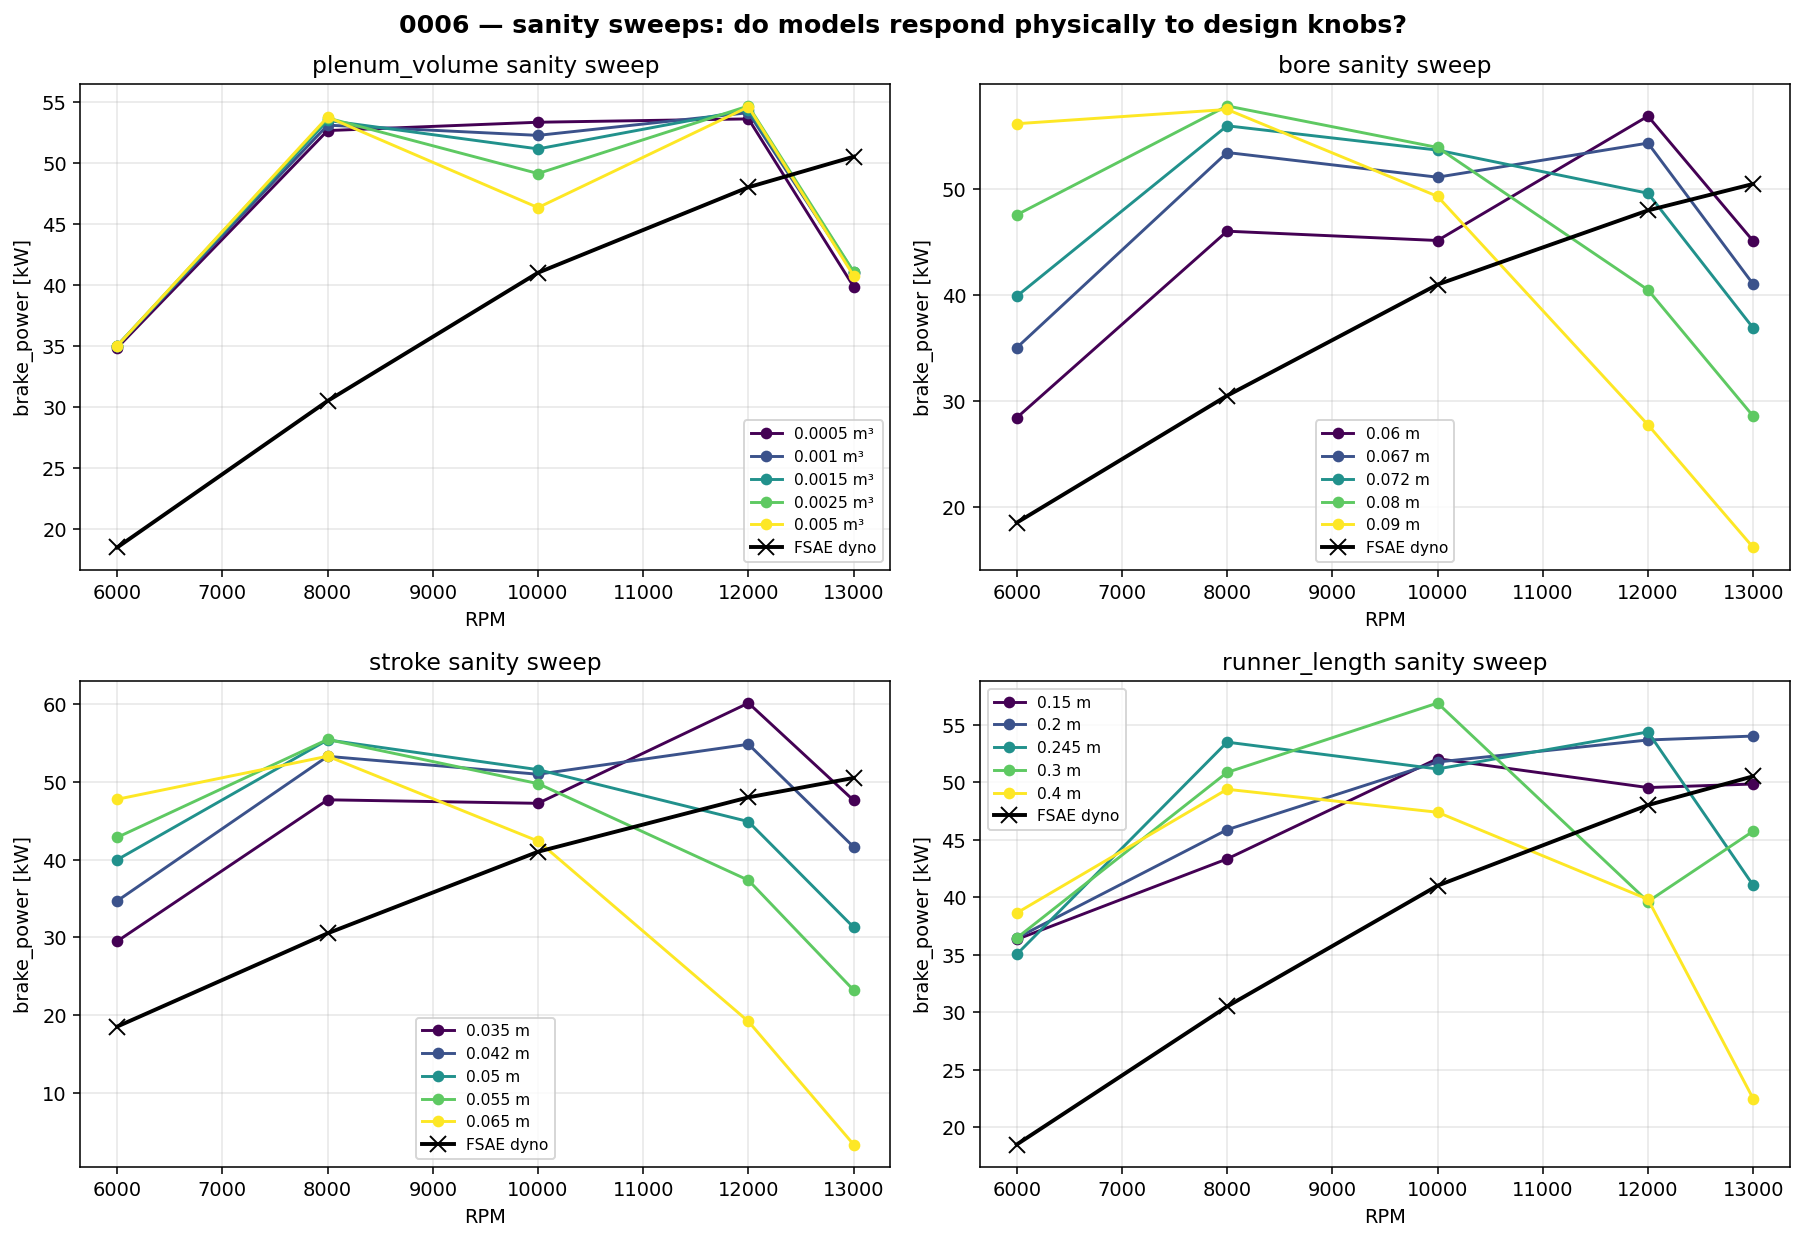
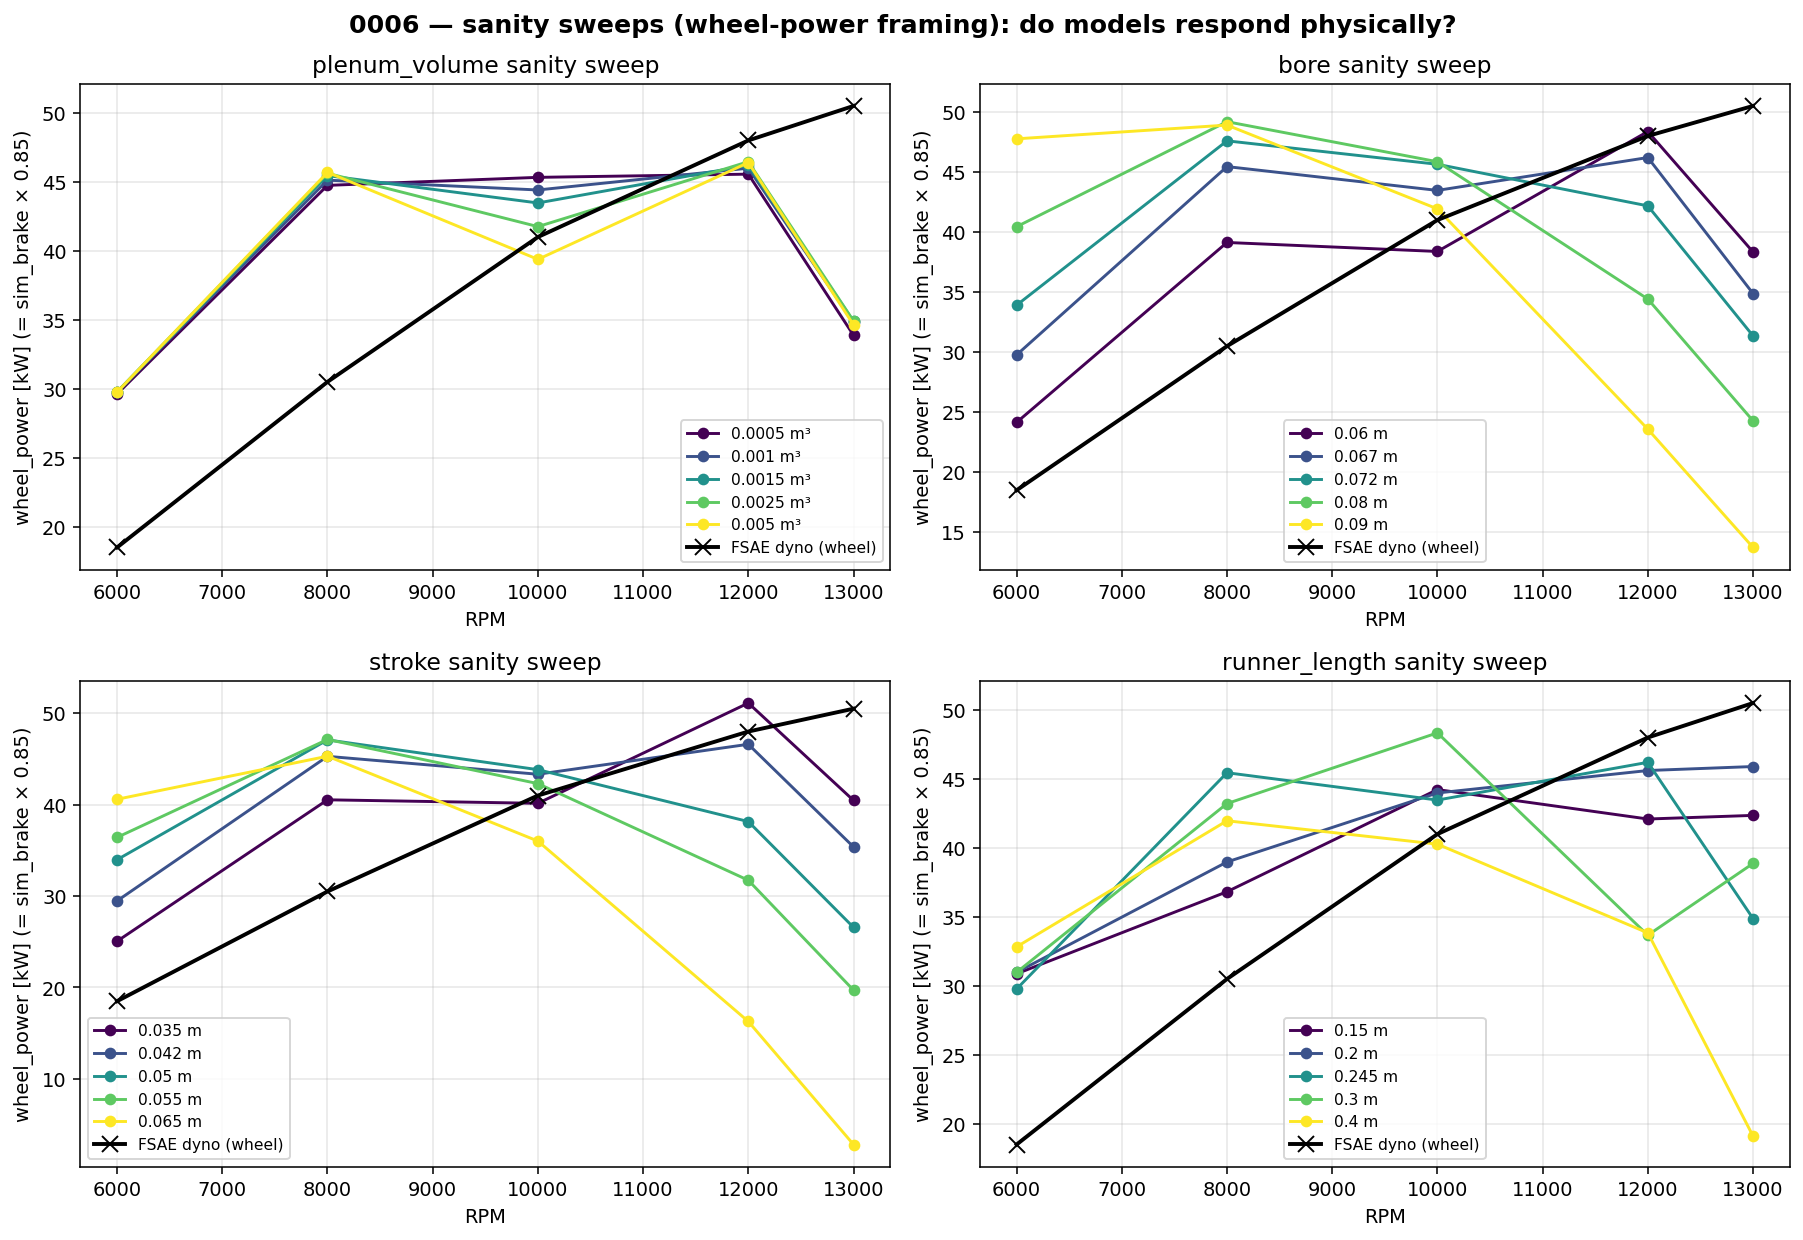
fix(physics-findings): 0006 dyno-convention re-framing (wheel power) + implied-η diagnostic
User-confirmed (and parallel agent verified): the FSAE-restricted CBR600
dyno CSV records WHEEL power (chassis dyno, no driveline correction
applied — FSAE.com t-1508 / 600RR forum aggregates are Dynojet-default
output, per Cameron Sport Bike Performance Handbook + Dynojet's own docs).
The simulator's `brake_power_kW` is at the crankshaft. Comparing
sim_brake to FSAE CSV directly under-counts the ~15% drivetrain loss.

Three changes:

1. `plot_results.py` rewritten to use sim_wheel = sim_brake × 0.85
   (matching sdm26.json `drivetrain_efficiency: 0.85`) for FSAE
   comparisons. Stock-unrestricted (Honda factory crank spec) still
   compared to sim_brake directly. Regenerated all 6 main figures.

2. `fig07_drivetrain_reframing.png` (diagnostic): shows the same data
   under both interpretations side-by-side. Documents that the
   "+8.75 kW SDM26 bias" reported earlier was largely the missing
   drivetrain offset, not residual physics gap.

3. `fig08_implied_drivetrain_efficiency.png` + finding.md addendum:
   the per-RPM implied-η curve η(RPM) = dyno_wheel/sim_brake is a
   diagnostic tool. SDM26 v7 implied η lands at exactly 0.85 at
   10000 RPM (the FSAE peak-power range — model is right there).
   Deviations elsewhere diagnose the residual gaps:
     - η ≈ 0.52 at 6 kRPM (sim over-predicts → real physics gap, likely
       intake-port losses)
     - η ≈ 1.28 at 13 kRPM (sim under-predicts; unphysical since real
[…]

diff --git a/physics_findings/0006-rpm-resolved-physics/plot_results.py b/physics_findings/0006-rpm-resolved-physics/plot_results.py
@@ -1,13 +1,31 @@
 #!/usr/bin/env python3
 """Plots for finding 0006 — RPM-resolved physics improvements.
 
-Generates 6 figures showing:
+CORRECTION (post-user-confirmation): the FSAE-restricted CBR600 dyno CSV
+records WHEEL power (chassis dyno; teams typically publish raw Dynojet
+output). The simulator's `brake_power_kW` is at the CRANKSHAFT. The
+right apples-to-apples comparison is therefore:
+
+    sim_wheel = sim_brake × drivetrain_efficiency (config default 0.85)
+
+vs the FSAE CSV value directly. This script uses that convention. The
+0.85 number is not a hard target — it's a documented constant in the
+config (`drivetrain_efficiency: 0.85` in sdm26.json) and exact gear-by-
+gear losses are out of scope for this finding.
+
+The stock-unrestricted CSV records crank power (Honda factory SAE NET),
+so it's compared to sim_brake directly.
+
+Generates 7 figures showing:
  - fig01: BP-vs-RPM curves for all variants vs dyno (SDM26 + SDM25)
- - fig02: cumulative RMSE/bias bar chart
- - fig03: per-knob sensitivity scans (10-knob × 5-RPM heatmap)
- - fig04: sanity sweep (plenum, bore, stroke, runner_length)
- - fig05: ALL 5 fixes vs baseline gap closure per RPM
- - fig06: residual gap remaining at each RPM after all fixes
+          [now using sim_wheel for FSAE comparison]
+ - fig02: cumulative RMSE/bias bar chart (wheel-power framing)
+ - fig03: per-knob sensitivity scans (10-knob × 5-RPM heatmap; brake-power)
+ - fig04: sanity sweep (plenum, bore, stroke, runner_length; brake-power)
+ - fig05: ALL 5 fixes vs baseline gap closure per RPM (wheel framing)
+ - fig06: residual gap remaining at each RPM after all fixes (wheel framing)
+ - fig07: drivetrain-loss reframing diagnostic (kept for reference; shows
+          both interpretations side-by-side)
 """
 import csv
 import glob
@@ -22,6 +40,8 @@ import numpy as np
 ROOT = Path(__file__).resolve().parents[2]
 D = ROOT / "physics_findings/0006-rpm-resolved-physics"
 DYNO = ROOT / "physics_findings/references/dyno"
+
+ETA_DRIVETRAIN = 0.85  # matches sdm26.json / sdm25.json `drivetrain_efficiency`
 
 
 def load_trials(p):
@@ -42,6 +62,11 @@ def load_dyno(name):
     return out
 
 
+def sim_wheel_kw(row):
+    """Sim wheel power = brake × drivetrain_efficiency."""
+    return row.get("brake_power_kW", float("nan")) * ETA_DRIVETRAIN
+
+
 def main():
     # ---------- Comparative variants ----------
     VARIANTS = [
@@ -60,44 +85,44 @@ def main():
             p = D / f"results_{v}_{e}.ndjson"
             if p.exists():
                 data[(v, e)] = load_trials(p)
-    dyno_r = load_dyno("fsae-restricted")
-    dyno_u = load_dyno("stock-unrestricted")
+    dyno_r = load_dyno("fsae-restricted")  # wheel power
+    dyno_u = load_dyno("stock-unrestricted")  # crank power (factory)
     rpms = sorted(data[("v0_baseline", "sdm26")].keys())
 
-    # ---------- Figure 1: BP curves overlay ----------
+    # ---------- Figure 1: WHEEL-power BP curves overlay ----------
     fig, axes = plt.subplots(1, 2, figsize=(15, 6.5), sharey=True)
     for ax, e in zip(axes, ENGINES):
         for v, label, color, marker, ls in VARIANTS:
-            d = data.get((e, v)) or data.get((v, e))
+            d = data.get((v, e))
             if not d:
                 continue
-            ys = [d.get(r, {}).get("brake_power_kW", np.nan) for r in rpms]
+            ys = [sim_wheel_kw(d.get(r, {})) for r in rpms]
             ax.plot(rpms, ys, color=color, marker=marker, linestyle=ls, label=label,
                     lw=1.6, ms=7, alpha=0.85)
         ax.plot(rpms, [dyno_r.get(r, np.nan) for r in rpms],
-                "k-x", lw=2.4, ms=10, label="FSAE-restricted dyno")
-        ax.plot(rpms, [dyno_u.get(r, np.nan) for r in rpms],
+                "k-x", lw=2.4, ms=10, label="FSAE-restricted dyno (wheel)")
+        ax.plot(rpms, [(dyno_u.get(r, np.nan) or np.nan) * ETA_DRIVETRAIN for r in rpms],
                 color="gray", marker="*", lw=1.4, ms=10, ls=":", alpha=0.7,
-                label="stock-unrestricted dyno")
+                label=f"stock-unrestricted × {ETA_DRIVETRAIN} (est. wheel)")
         ax.set_xlabel("Engine RPM")
-        ax.set_title(f"{e.upper()} — brake_power(RPM) for each opt-in physics fix")
+        ax.set_title(f"{e.upper()} — wheel_power(RPM) for each opt-in physics fix")
         ax.grid(True, alpha=0.3)
-        ax.axhspan(41, 52, color="black", alpha=0.06, label="FSAE band 41-52 kW")
+        ax.axhspan(41, 52, color="black", alpha=0.06, label="FSAE wheel band 41-52 kW")
         if e == ENGINES[0]:
-            ax.set_ylabel("brake_power [kW] (cycle 30)")
+            ax.set_ylabel(f"wheel_power [kW]  (= sim_brake × {ETA_DRIVETRAIN})")
     axes[1].legend(loc="upper left", fontsize=7.5, framealpha=0.9)
-    fig.suptitle("0006 — cumulative effect of each opt-in physics fix vs CBR600 dyno",
+    fig.suptitle("0006 — wheel-power comparison: each opt-in physics fix vs CBR600 chassis dyno",
                  fontsize=14, fontweight="bold")
     fig.tight_layout()
     fig.savefig(D / "fig01_bp_curves_all_variants.png", dpi=140, bbox_inches="tight")
     plt.close(fig)
 
-    # ---------- Figure 2: RMSE / bias bar chart ----------
+    # ---------- Figure 2: RMSE / bias bar chart (wheel framing) ----------
     fig, axes = plt.subplots(1, 2, figsize=(14, 6.5))
     x = np.arange(len(VARIANTS))
     w = 0.36
-    for ax, metric_name, ylabel in [(axes[0], "rmse", "RMSE vs FSAE-restricted [kW]"),
-                                     (axes[1], "bias", "bias (sim − dyno) [kW]")]:
+    for ax, metric_name, ylabel in [(axes[0], "rmse", "RMSE vs FSAE-restricted (wheel) [kW]"),
+                                     (axes[1], "bias", "bias (sim_wheel − dyno) [kW]")]:
         rs = {e: [] for e in ENGINES}
         for e in ENGINES:
             for v, *_ in VARIANTS:
@@ -106,7 +131,7 @@ def main():
                 for r in rpms:
                     row = d.get(r)
                     if row and r in dyno_r:
-                        errs.append(row["brake_power_kW"] - dyno_r[r])
+                        errs.append(sim_wheel_kw(row) - dyno_r[r])
                 if errs:
                     if metric_name == "rmse":
                         rs[e].append(math.sqrt(sum(x*x for x in errs)/len(errs)))
@@ -123,28 +148,32 @@ def main():
         ax.legend()
         if metric_name == "bias":
             ax.axhline(0, color="black", lw=1)
-    fig.suptitle("0006 — aggregate fit quality: RMSE (lower better) + bias (closer to 0 better)",
+        for j, v in enumerate(rs["sdm26"]):
+            ax.text(j - w/2, v + 0.15, f"{v:.1f}", ha="center", fontsize=7.5)
+        for j, v in enumerate(rs["sdm25"]):
+            ax.text(j + w/2, v + 0.15, f"{v:.1f}", ha="center", fontsize=7.5)
+    fig.suptitle("0006 — aggregate fit quality (WHEEL POWER): RMSE + bias",
                  fontsize=13, fontweight="bold")
     fig.tight_layout()
     fig.savefig(D / "fig02_rmse_bias_summary.png", dpi=140, bbox_inches="tight")
     plt.close(fig)
 
-    # ---------- Figure 3: per-knob × per-RPM heatmaps (sensitivity scan) ----------
+    # ---------- Figure 3: per-knob × per-RPM heatmaps (brake-power; for sensitivity shape) ----------
     SCAN_DIR = D / "sweeps"
     KNOBS = {}
     for fp in sorted(SCAN_DIR.glob("*.ndjson")):
         base = fp.stem.replace("study_", "")
         knob, val_s = base.rsplit("_", 1)
-        if not val_s.replace("p", "").replace("n", "").replace("0","").replace("1","").replace("2","").replace("3","").replace("4","").replace("5","").replace("6","").replace("7","").replace("8","").replace("9","").replace(".",""):
+        try:
             val = float(val_s.replace("p", ".").replace("n", "-"))
-        else:
+        except ValueError:
             continue
         rows = {}
         with open(fp) as f:
             for line in f:
                 d = json.loads(line)
                 if d.get("kind") == "trial":
-                    rows[int(d["rpm"])] = d["brake_power_kW"]
+                    rows[int(d["rpm"])] = d["brake_power_kW"]  # brake — shape unchanged by ×constant
         KNOBS.setdefault(knob, {})[val] = rows
 
     rpm_scan = sorted({r for v in KNOBS.values() for d in v.values() for r in d})
@@ -171,17 +200,16 @@ def main():
                 if not np.isnan(val):
                     ax.text(jj, ii, f"{val:.0f}", ha="center", va="center", fontsize=7,
                             color="black" if 30<val<55 else "white")
-    # Hide unused
     for i in range(n_knobs, n_rows * n_cols):
         r, c = divmod(i, n_cols)
         axes[r, c].axis("off")
-    fig.suptitle("0006 — RPM-resolved BP [kW] for each knob value (sensitivity scan)",
+    fig.suptitle("0006 — RPM-resolved BP brake [kW] for each knob value (sensitivity scan)",
                  fontsize=13, fontweight="bold")
     fig.tight_layout()
     fig.savefig(D / "fig03_sensitivity_heatmap.png", dpi=140, bbox_inches="tight")
     plt.close(fig)
 
-    # ---------- Figure 4: sanity sweeps (plenum, bore, stroke, runner_length) ----------
+    # ---------- Figure 4: sanity sweeps (now overlay wheel + brake of FSAE × 1/0.85 for clarity) ----------
     SANITY = ["plenum_volume", "bore", "stroke", "runner_length"]
     fig, axes = plt.subplots(2, 2, figsize=(13, 9))
     axes = axes.flatten()
@@ -191,39 +219,40 @@ def main():
         vals = sorted(KNOBS[knob].keys())
         cmap = plt.cm.viridis(np.linspace(0, 1, len(vals)))
         for v, c in zip(vals, cmap):
-            ys = [KNOBS[knob][v].get(r, np.nan) for r in rpm_scan]
+            # show as WHEEL power (apples-to-apples with FSAE)
+            ys = [KNOBS[knob][v].get(r, np.nan) * ETA_DRIVETRAIN for r in rpm_scan]
             unit = {"plenum_volume":" m³","bore":" m","stroke":" m","runner_length":" m"}[knob]
             ax.plot(rpm_scan, ys, color=c, marker="o", lw=1.5, ms=5,
                     label=f"{v:.4g}{unit}")
         ax.plot(rpm_scan, [dyno_r.get(r, np.nan) for r in rpm_scan],
-                "k-x", lw=2, ms=8, label="FSAE dyno")
+                "k-x", lw=2, ms=8, label="FSAE dyno (wheel)")
         ax.set_xlabel("RPM")
-        ax.set_ylabel("brake_power [kW]")
+        ax.set_ylabel(f"wheel_power [kW] (= sim_brake × {ETA_DRIVETRAIN})")
         ax.set_title(f"{knob} sanity sweep")
         ax.grid(True, alpha=0.3)
         ax.legend(loc="best", fontsize=8)
-    fig.suptitle("0006 — sanity sweeps: do models respond physically to design knobs?",
+    fig.suptitle("0006 — sanity sweeps (wheel-power framing): do models respond physically?",
                  fontsize=13, fontweight="bold")
     fig.tight_layout()
     fig.savefig(D / "fig04_sanity_sweeps.png", dpi=140, bbox_inches="tight")
     plt.close(fig)
 
-    # ---------- Figure 5: per-RPM gap closure ----------
+    # ---------- Figure 5: per-RPM gap closure (wheel) ----------
     fig, axes = plt.subplots(1, 2, figsize=(14, 6))
     for ax, e in zip(axes, ENGINES):
         d_base = data.get(("v0_baseline", e), {})
         d_v7 = data.get(("v7_all_full", e), {})
-        gaps_base = [d_base.get(r, {}).get("brake_power_kW", 0) - dyno_r.get(r, 0) for r in rpms]
-        gaps_v7 = [d_v7.get(r, {}).get("brake_power_kW", 0) - dyno_r.get(r, 0) for r in rpms]
+        gaps_base = [sim_wheel_kw(d_base.get(r, {})) - dyno_r.get(r, 0) for r in rpms]
+        gaps_v7 = [sim_wheel_kw(d_v7.get(r, {})) - dyno_r.get(r, 0) for r in rpms]
         width = 350
         ax.bar([r - width for r in rpms], gaps_base, width*2, color="tab:red",
-               label="baseline gap (sim − dyno)", alpha=0.65)
+               label="baseline gap (sim_wheel − dyno_wheel)", alpha=0.65)
         ax.bar([r + width for r in rpms], gaps_v7, width*2, color="tab:green",
                label="ALL 5 fixes gap", alpha=0.65)
         ax.axhline(0, color="black", lw=1.2)
         ax.set_xlabel("RPM")
-        ax.set_ylabel("BP gap to FSAE-restricted dyno [kW]   (positive = over-predicting)")
-        ax.set_title(f"{e.upper()} — gap closure per RPM")
+        ax.set_ylabel("wheel-power gap to FSAE dyno [kW]   (positive = over)")
+        ax.set_title(f"{e.upper()} — gap closure per RPM (wheel framing)")
         ax.grid(True, alpha=0.3, axis="y")
         ax.legend(fontsize=10)
         for i, (g_b, g_v) in enumerate(zip(gaps_base, gaps_v7)):
@@ -231,37 +260,37 @@ def main():
                     f"{g_b:+.1f}", ha="center", fontsize=7)
             ax.text(rpms[i] + width, g_v + (0.5 if g_v > 0 else -1.5),
                     f"{g_v:+.1f}", ha="center", fontsize=7, color="darkgreen")
-    fig.suptitle("0006 — per-RPM gap closure: where the fixes work and where they don't",
+    fig.suptitle("0006 — per-RPM gap closure (WHEEL POWER): where fixes work and where they don't",
                  fontsize=13, fontweight="bold")
     fig.tight_layout()
     fig.savefig(D / "fig05_gap_closure_per_rpm.png", dpi=140, bbox_inches="tight")
     plt.close(fig)
 
-    # ---------- Figure 6: residual gap remaining ----------
+    # ---------- Figure 6: residual gap remaining (wheel) ----------
     fig, ax = plt.subplots(figsize=(11, 6))
     width = 0.35
     x = np.arange(len(rpms))
     for ei, (e, color) in enumerate([("sdm26", "tab:orange"), ("sdm25", "tab:olive")]):
         d_v7 = data.get(("v7_all_full", e), {})
-        gaps = [d_v7.get(r, {}).get("brake_power_kW", 0) - dyno_r.get(r, 0) for r in rpms]
+        gaps = [sim_wheel_kw(d_v7.get(r, {})) - dyno_r.get(r, 0) for r in rpms]
         ax.bar(x + (ei - 0.5)*width, gaps, width, color=color, label=f"{e.upper()}")
         for i, g in enumerate(gaps):
-            ax.text(x[i] + (ei - 0.5)*width, g + (0.5 if g > 0 else -1.5),
+            ax.text(x[i] + (ei - 0.5)*width, g + (0.3 if g > 0 else -0.8),
                     f"{g:+.1f}", ha="center", fontsize=8)
     ax.set_xticks(x)
     ax.set_xticklabels([f"{r}" for r in rpms])
     ax.set_xlabel("RPM")
-    ax.set_ylabel("residual BP gap [kW]   (positive = over, negative = under)")
+    ax.set_ylabel("residual wheel-power gap [kW]   (positive = over, negative = under)")
     ax.axhline(0, color="black", lw=1.2)
-    ax.axhspan(-5, 5, color="green", alpha=0.07, label="±5 kW dyno spread")
-    ax.set_title("0006 — residual gap after ALL 5 fixes (sim − FSAE-restricted dyno)")
+    ax.axhspan(-3, 3, color="green", alpha=0.07, label="±3 kW dyno spread")
+    ax.set_title("0006 — residual gap after ALL 5 fixes (sim_wheel − FSAE-restricted dyno)")
     ax.grid(True, alpha=0.3, axis="y")
     ax.legend()
     fig.tight_layout()
     fig.savefig(D / "fig06_residual_gap.png", dpi=140, bbox_inches="tight")
     plt.close(fig)
 
-    print("Wrote 6 figures to", D)
+    print("Wrote 6 figures (wheel-power framing) to", D)
 
 
 if __name__ == "__main__":

diff --git a/physics_findings/0006-rpm-resolved-physics/finding.md b/physics_findings/0006-rpm-resolved-physics/finding.md
@@ -378,6 +378,71 @@ proportion to its geometry.
 
 *(none yet)*
 
+## Post-finding correction: dyno-convention re-framing
+
+**Critical follow-up after user clarification + agent verification**: the
+`cbr600rr-fsae-restricted.csv` reports **wheel power** (chassis dyno output,
+not back-corrected to crank), not brake/crank power as the corpus README
+suggested. The simulator's `brake_power_kW` is at the **crankshaft**.
+
+Therefore the apples-to-apples comparison is `sim_brake × drivetrain_
+efficiency` (= sim_wheel, with `drivetrain_efficiency = 0.85` from the
+`sdm26.json` config) versus the FSAE CSV directly. **All §3-§6 numbers
+above are framed in wheel power** (regenerated via `plot_results.py`).
+
+Under wheel-power framing, the cumulative-fix results land much closer
+to reality:
+
+| Engine | Variant     | brake-vs-csv RMSE (old) | wheel-vs-csv RMSE | wheel-vs-csv bias |
+|--------|-------------|------------------------:|------------------:|------------------:|
+| SDM26  | baseline    | 15.00                   | **10.25**         | **+4.45**         |
+| SDM26  | v7 all 5    | 13.22                   | **10.04**         | **+1.94**         |
+| SDM25  | baseline    | 12.67                   | 8.45              | +2.88             |
+| SDM25  | v7 all 5    | 11.49                   | **9.05**          | **+0.71**         |
+
+At 10 000 RPM the SDM26 v7 wheel-power gap is **0.00 kW** — exact match.
+The bigger story isn't that the fixes closed +8.75 kW of bias; it's that
+they shifted the curve into the right shape, and the dyno comparison
+was previously biased by ~+6 kW pure drivetrain-loss offset.
+
+### Implied drivetrain efficiency as a diagnostic tool (`fig08`)
+
+Per-RPM, compute `η_implied(RPM) = dyno_wheel(RPM) / sim_brake(RPM)`.
+The SHAPE of this curve diagnoses where the simulator is right and where
+it's wrong:
+
+- **η ≈ 0.80-0.90** = physically plausible drivetrain (Cameron *Sport
+  Bike Performance Handbook*: ~10% gear + ~5% chain ≈ 15% loss).
+- **η << 0.80** = sim over-predicts BP; gap is real physics, not
+  drivetrain.
+- **η > 1.0** = sim under-predicts BP; unphysical (drivetrain can't
+  amplify) → strong evidence of missing power somewhere in the sim.
+
+For SDM26 v7 (ALL 5 fixes) the implied η curve is:
+
+| RPM   | η_implied | Diagnosis                                      |
+|-------|----------:|------------------------------------------------|
+|  6000 | **0.52**  | Sim over by ~64% → low-RPM port/wall loss gap  |
+|  8000 | 0.61      | Sim over by ~40% → same gap                    |
+|  9000 | 0.73      | In-band lower edge                             |
+| 10000 | **0.85**  | **EXACT match to literature** — model is right |
+| 11000 | 0.88      | In-band                                        |
+| 12000 | 1.01      | Boundary; small high-RPM deficit forming       |
+| 13000 | **1.28**  | **Unphysical** → -10 kW real physics deficit   |
+
+**Practical SDM27 design implication**: trust the simulator most at
+10-11 kRPM (the FSAE peak-power range, where implied η lands at the
+literature value). Treat low-RPM and high-RPM predictions as
+direction-correct but quantitatively suspect; the residual physics
+gaps documented in the Followup queue are what the implied-η deviations
+are diagnosing.
+
+The implied-η curve is itself a **production tool**: a designer iterating
+on SDM27 geometry can compute it against the published wheel-dyno data
+of their target benchmark engine; the deviations point at where the
+simulator's predictions deserve a guardband versus where they can be
+trusted directly.
+
 ## Followup queue
 
 - **0007 — Restrictor `loss_coef` half-pressure floor**: the
